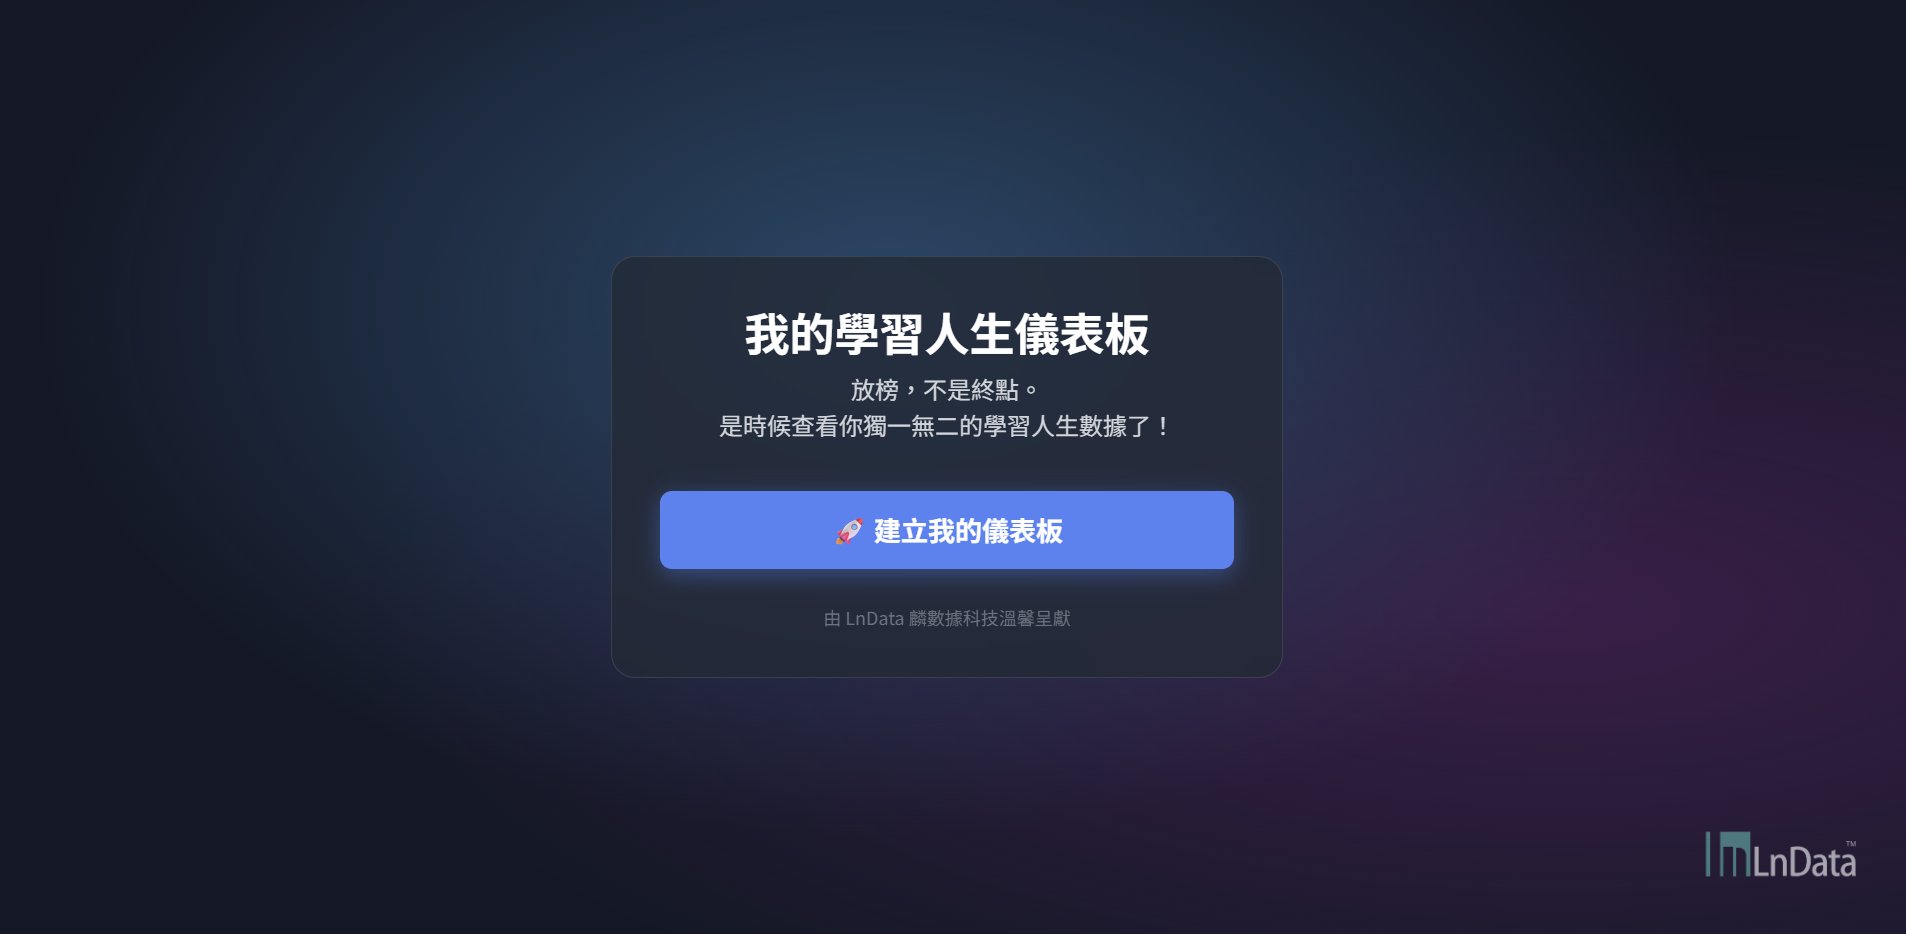
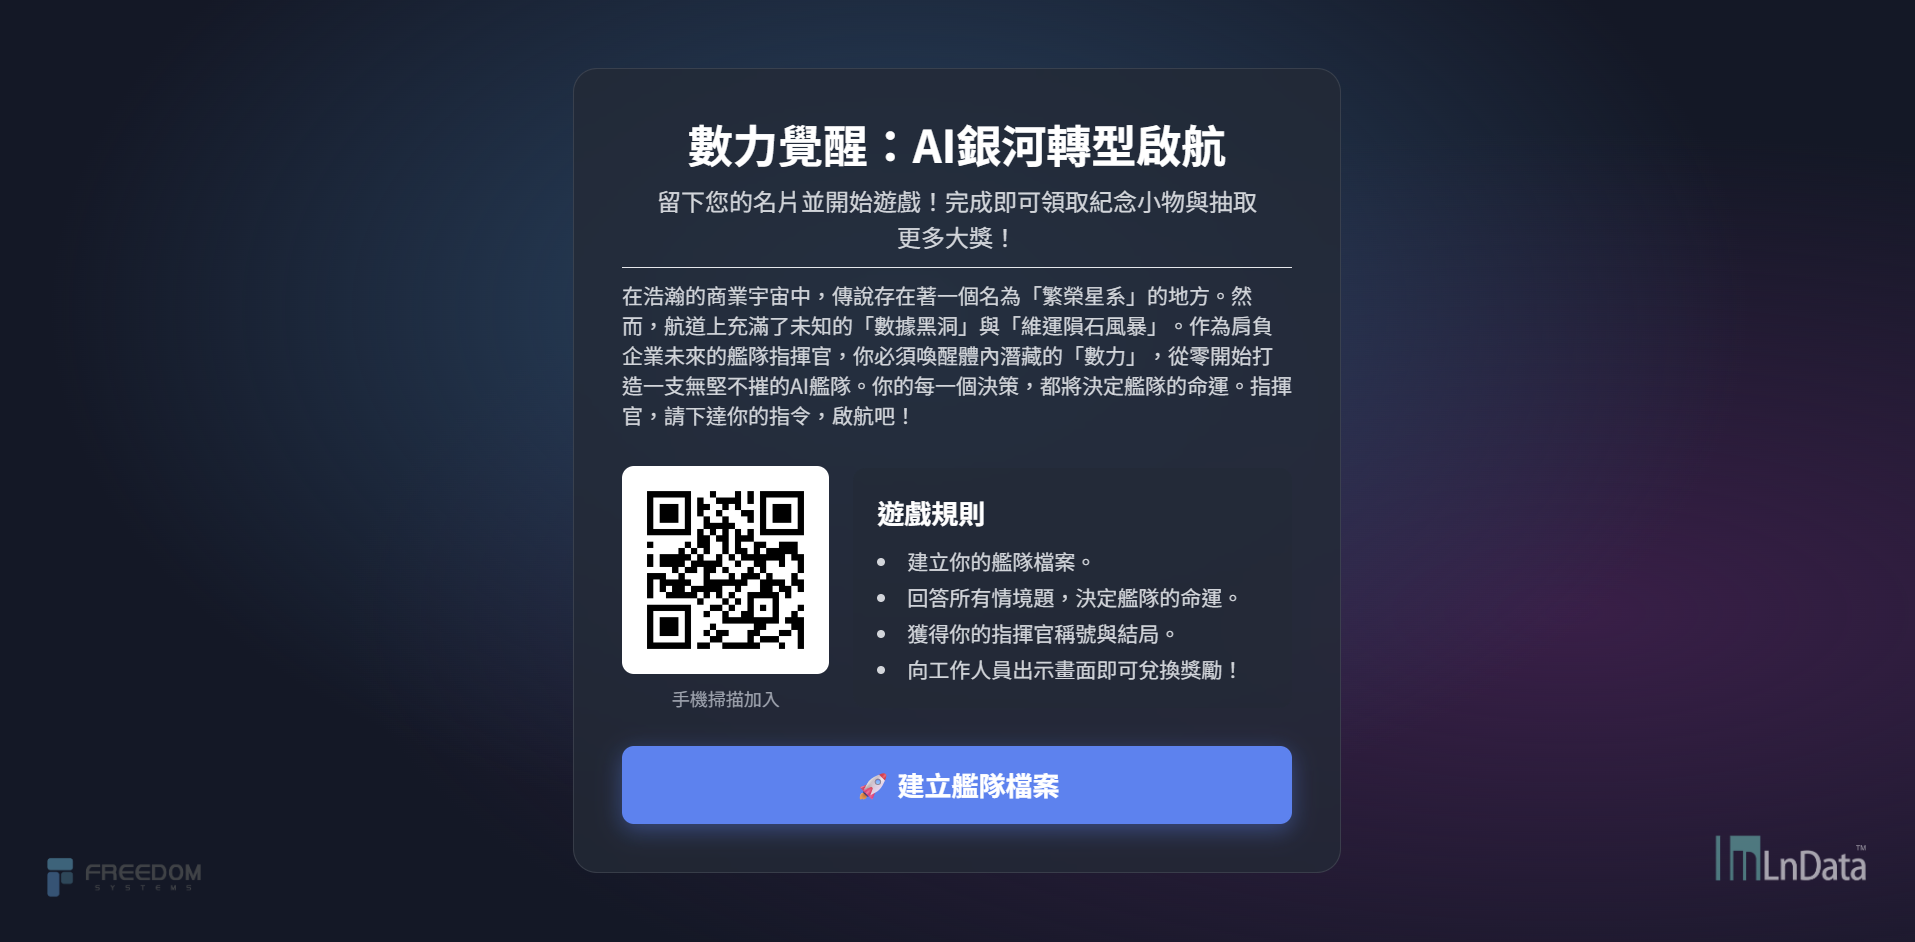
beta 0.85

Changed region(s): [[0.3095, 0.1242, 0.681, 0.9004], [0.8977, 0.8694, 0.9906, 0.9625], [0.0, 0.9004, 0.0929, 0.9625]]

diff --git a/index.html b/index.html
@@ -3,34 +3,34 @@
 <head>
     <meta charset="UTF-8">
     <meta name="viewport" content="width=device-width, initial-scale=1.0">
-    <title>學習人生數據儀表板</title>
+    <title>《數力覺醒：AI銀河轉型啟航》</title>
     <link rel="icon" href="favicon.ico" sizes="any">
-    <link rel="icon" href="https://lndatatech.github.io/life-dashboard/favicon.png" type="image/x-icon">
-    <link rel="apple-touch-icon" href="https://lndatatech.github.io/life-dashboard/favicon.png">
+    <link rel="icon" href="https://lndatatech.github.io/fc-2025/favicon.png" type="image/x-icon">
+    <link rel="apple-touch-icon" href="https://lndatatech.github.io/fc-2025/favicon.png">
     <meta name="description"
-        content="LnData的學習人生數據儀表板透過有趣的心理測驗，探索你的性格特質與學習風格！歡迎學測放榜後的各位準大學生來試試，可以測出你獨一無二的儀表板喔！" />
+        content="2025未來商務展限定！LnData攜手自由系統Freedom Systems推出聯合小遊戲，趕快報名6/26-6/28在圓山花博爭豔館的未來商務展，參觀攤位挑戰遊戲並領取精美好禮！" />
     <meta name="keywords"
-        content="學習 心理測驗, 學習 性格分析, 數據心理學, 人格測驗, 數據 心理測驗, 心理 小遊戲, 大數據心理測驗, 數據人生, 學習 儀錶板" />
+        content="數據 心理測驗, 數位轉型 分析, 數據心理學, 人格測驗,AI 心理測驗,數據 心理測驗,AI 心理 小遊戲, 大數據心理測驗, 數力覺醒, 學習 儀錶板" />
     <meta name="author" content="LnData 麟數據科技" />
-    <link rel="bookmark" href="https://raw.githubusercontent.com/LnDataTech/life-dashboard/refs/heads/main/favicon.ico">
+    <link rel="bookmark" href="https://raw.githubusercontent.com/LnDataTech/fc-2025/refs/heads/main/favicon.ico">
     <link rel="shortcut icon"
-        href="https://raw.githubusercontent.com/LnDataTech/life-dashboard/refs/heads/main/favicon.ico">
+        href="https://raw.githubusercontent.com/LnDataTech/fc-2025/refs/heads/main/favicon.ico">
 
-    <meta property="og:title" content="學習人生心理測驗｜生成你的人生儀表板" />
+    <meta property="og:title" content="自由系統 × LnData《數力覺醒：AI銀河轉型啟航》" />
     <meta property="og:image"
-        content="https://raw.githubusercontent.com/LnDataTech/life-dashboard/refs/heads/main/cover.png" />
-    <meta property="og:url" content="https://lndatatech.github.io/life-dashboard" />
+        content="https://raw.githubusercontent.com/LnDataTech/fc-2025/refs/heads/main/cover.png" />
+    <meta property="og:url" content="https://lndatatech.github.io/fc-2025" />
     <meta property="og:type" content="website" />
     <meta property="og:site_name" content="LnData" />
     <meta property="og:description"
-        content="用數據揭開你的性格特質與學習風格！歡迎學測放榜後的各位準大學生來試試，可以測出你獨一無二的儀表板喔！" />
+        content="2025未來商務展限定！LnData攜手自由系統Freedom Systems推出聯合小遊戲，趕快報名6/26-6/28在圓山花博爭豔館的未來商務展，參觀攤位挑戰遊戲並領取精美好禮！" />
     <meta name="twitter:site" content="@LnData_Official" />
     <meta name="twitter:image"
-        content="https://raw.githubusercontent.com/LnDataTech/life-dashboard/refs/heads/main/cover.png" />
+        content="https://raw.githubusercontent.com/LnDataTech/fc-2025/refs/heads/main/cover.png" />
     <meta name="twitter:card" content="summary_large_image" />
-    <meta name="twitter:title" content="學習人生數據儀表板" />
+    <meta name="twitter:title" content="數力覺醒：AI銀河轉型啟航" />
     <meta name="twitter:description"
-        content="LnData的學習人生數據儀表板透過有趣的心理測驗，探索你的性格特質與學習風格！歡迎學測放榜後的各位準大學生來試試，可以測出你獨一無二的儀表板喔！" />
+        content="2025未來商務展限定！LnData攜手自由系統Freedom Systems推出聯合小遊戲，趕快報名6/26-6/28在圓山花博爭豔館的未來商務展，參觀攤位挑戰遊戲並領取精美好禮！" />
     <script src="https://cdn.tailwindcss.com"></script>
     <script src="https://cdnjs.cloudflare.com/ajax/libs/html2canvas/1.4.1/html2canvas.min.js"></script>
     <link rel="preconnect" href="https://fonts.googleapis.com">
@@ -41,9 +41,9 @@
     {
         "@context": "https://schema.org",
         "@type": "WebApplication",
-        "name": "LnData 學習人生數據儀表板",
-        "description": "透過有趣的心理測驗，探索你的性格特質與學習風格，並生成專屬的儀表板！",
-        "url": "https://lndatatech.github.io/life-dashboard",
+        "name": "數力覺醒：AI銀河轉型啟航",
+        "description": "2025未來商務展限定！LnData攜手自由系統Freedom Systems推出聯合小遊戲，趕快報名6/26-6/28在圓山花博爭豔館的未來商務展，參觀攤位挑戰遊戲並領取精美好禮！",
+        "url": "https://lndatatech.github.io/fc-2025/",
         "applicationCategory": "GameApplication",
         "operatingSystem": "All",
         "browserRequirements": "Requires JavaScript and a modern web browser.",
@@ -156,7 +156,7 @@
             
             <div class="grid grid-cols-3 gap-4 items-center mb-6">
                 <div class="col-span-1">
-                    <img src="https://placehold.co/200x200/FFF/000?text=Scan+Me" alt="遊戲 QR Code" class="rounded-lg w-full">
+                    <img src="./img/shares.png" alt="遊戲 QR Code" class="rounded-lg w-full">
                     <p class="text-xs mt-2 text-gray-400">手機掃描加入</p>
                 </div>
                 <div class="col-span-2 text-left bg-gray-800/50 p-4 rounded-lg">
